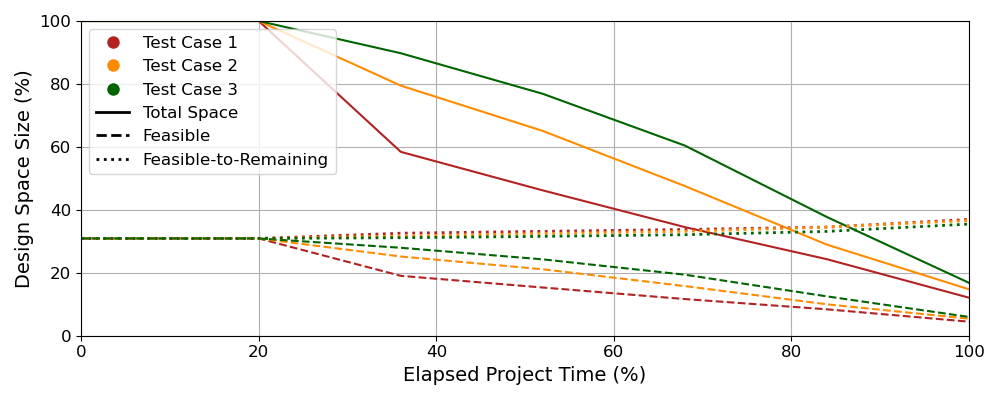
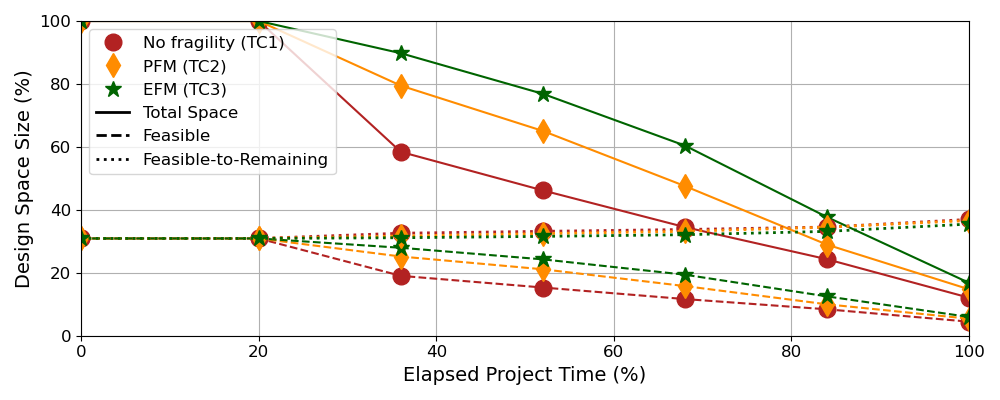
Updated display of final results

diff --git a/Python Code/Simulation_Results_050_DTC1/plot_data.py b/Python Code/Simulation_Results_050_DTC1/plot_data.py
@@ -20,7 +20,7 @@ from matplotlib.lines import Line2D
 """
 SECONDARY FUNCTION
 """
-def plotData(data, label_prefix, linestyle, colors, color_idx, marker=None):
+def plotData(data, label_prefix, linestyle, colors, color_idx, marker):
     """
     Description
     -----------
@@ -41,8 +41,8 @@ def plotData(data, label_prefix, linestyle, colors, color_idx, marker=None):
     color_idx : Integer
         Current position in the `colors` list from which to start coloring the
         plotted lines
-    marker : String, optional
-        Marker style. Default is None, which means no marker
+    marker : List
+        Marker styles
 
     Returns
     -------
@@ -51,7 +51,7 @@ def plotData(data, label_prefix, linestyle, colors, color_idx, marker=None):
     """
     
     # Loop through each test case's data
-    for test_case, data_points in data.items():
+    for i, (test_case, data_points) in enumerate(data.items()):
         
         # Sort data points by its time iteration keys
         sorted_data_points = sorted(data_points.items(), key=lambda x: x[0])
@@ -73,7 +73,7 @@ def plotData(data, label_prefix, linestyle, colors, color_idx, marker=None):
         # Plot the data
         plt.plot(x_values, y_values, label=f'{label_prefix} {test_case}',
                  color=colors[color_idx % len(colors)], linestyle=linestyle,
-                 linewidth=linewidth, marker=marker)
+                 linewidth=linewidth, marker=marker[i], markersize=12)
         
         # Increase the color index by 1
         color_idx += 1
@@ -114,15 +114,17 @@ def plotDisciplines(all_disciplines_data, feas1_disciplines_data,
         over elapsed time
     """
     
-    # Initialize colors, line styles, and markers
+    # Initialize colors, line styles, markers, and legend names
     colors = ['firebrick', 'darkorange', 'darkgreen']
     # line_styles = ['-', '--', ':', '-.', 'None', 'None']
     line_styles = ['-', '--', ':']
     # markers = ['', '', '', '', '*', '+']
-    markers = ['', '', '']
+    markers = ['o', 'd', '*']
     # data_groups = ['Total Space', 'Feasible Space', 'Feasible-to-Remaining',
     #                'Universal Feasible', 'Universal-to-Remaining', 'Diversity']
     data_groups = ['Total Space', 'Feasible', 'Feasible-to-Remaining']
+    custom_names = ["No fragility (TC1)", "PFM (TC2)", "EFM (TC3)"] 
+    
     
     # Loop through each discipline's data
     for discipline, all_test_cases_data in all_disciplines_data.items():
@@ -131,13 +133,13 @@ def plotDisciplines(all_disciplines_data, feas1_disciplines_data,
         plt.figure(figsize=(10, 4))
         
         # Create custom legend labels
-        color_handles = [Line2D([0], [0], marker='o', color='w', 
-                         label=f'Test Case {i+1}', markerfacecolor=color, 
-                         markersize=10) for i, color in enumerate(colors)]
+        color_handles = [Line2D([0], [0], color=color, linewidth=0, 
+                                marker=markers[i], markersize=12, 
+                                label=custom_names[i]) \
+                         for i, color in enumerate(colors)]
         line_style_handles = [Line2D([0], [0], color='black', linewidth=2,
-                              linestyle=ls, marker=mk, label=data_groups[i]) \
-                              for i, (ls, mk) in enumerate(zip(line_styles, 
-                                                               markers))]
+                              linestyle=ls, label=data_groups[i]) \
+                              for i, ls in enumerate(line_styles)]
         
         # Retrieve disciplines' feasible space data
         feas1_test_cases_data = feas1_disciplines_data.get(discipline, {})
@@ -151,27 +153,27 @@ def plotDisciplines(all_disciplines_data, feas1_disciplines_data,
         # Plot data for space remaining
         color_idx = 0
         color_idx = plotData(all_test_cases_data, 'All', line_styles[0], 
-                             colors, 0, markers[0])
+                             colors, 0, markers)
         
         # Plot data for feasible-to-remaining space
         color_idx = 0
         color_idx = plotData(feas2_test_cases_data, 'Feas2', line_styles[1], 
-                              colors, 0, markers[1])
+                              colors, 0, markers)
         
         # Plot data for feasible space remaining
         color_idx = 0
         color_idx = plotData(feas1_test_cases_data, 'Feas1', line_styles[2], 
-                             colors, 0, markers[2])
+                             colors, 0, markers)
         
         # # Plot data for universal feasible space remaining
         # color_idx = 0
         # color_idx = plotData(ufeas2_test_cases_data, 'uFeas2', line_styles[3], 
-        #                      colors, 0, markers[3])
+        #                      colors, 0, markers)
         
         # # Plot data for universal feasible-to-remaining space
         # color_idx = 0
         # color_idx = plotData(ufeas1_test_cases_data, 'uFeas1', line_styles[4], 
-        #                      colors, 0, markers[4])
+        #                      colors, 0, markers)
         
         # Plot legend
         plt.legend(handles=color_handles+line_style_handles, loc='upper left',
@@ -198,7 +200,7 @@ def plotDisciplines(all_disciplines_data, feas1_disciplines_data,
         plt.show()
 
 
-def plotDiversity(discipline_data, data_type, linestyle, colors, marker=None):
+def plotDiversity(discipline_data, data_type, linestyle, colors, marker):
     """
     Description
     -----------
@@ -214,9 +216,12 @@ def plotDiversity(discipline_data, data_type, linestyle, colors, marker=None):
         Style of line for plotting. Use 'None' for no line
     colors : List
         List of colors for plotting lines
-    marker : String, optional
-        Marker style. Default is None, which means no marker
+    marker : List
+        List of marker styles for plotting lines
     """
+    
+    # Initialize custom legend names
+    custom_names = ["No fragility (TC1)", "PFM (TC2)", "EFM (TC3)"] 
     
     # Loop through each discipline's data
     for discipline, all_test_cases_data in discipline_data.items():
@@ -228,7 +233,7 @@ def plotDiversity(discipline_data, data_type, linestyle, colors, marker=None):
         color_idx = 0
         
         # Loop through each test case's data
-        for test_case, data_points in all_test_cases_data.items():
+        for j,(test_case,data_points) in enumerate(all_test_cases_data.items()):
             
             # Sort data points by its time iteration keys
             sorted_data_points = sorted(data_points.items(), key=lambda x: x[0])
@@ -249,16 +254,18 @@ def plotDiversity(discipline_data, data_type, linestyle, colors, marker=None):
             
             # Plot the data
             plt.plot(x_values, y_values, label=f'{data_type} {test_case}',
-                     color=colors[color_idx % len(colors)], linestyle=linestyle, 
-                     linewidth=linewidth, marker=marker)
+                     color=colors[color_idx % len(colors)], 
+                     linestyle=linestyle, linewidth=linewidth, 
+                     marker=marker[j], markersize=12)
             
             # Increase the color index by 1
             color_idx += 1
         
         # Create custom legend labels
         custom_legend = [Line2D([0], [0], color=colors[i % len(colors)], 
-                                linestyle=linestyle, linewidth=2, marker=marker, 
-                                label=f'Test Case {i+1}') \
+                                linestyle=linestyle, linewidth=0, 
+                                marker=marker[i], markersize=12, 
+                                label=custom_names[i]) \
                          for i in range(len(all_test_cases_data))]
         
         # Plot legend
@@ -414,7 +421,8 @@ plotDisciplines(all_disciplines_data, feas1_disciplines_data,
 
 # Create diversity plots for each discipline
 plotDiversity(diversity_data, 'Discrepancy', '-', 
-              ['firebrick', 'darkorange', 'darkgreen'])
+              ['firebrick', 'darkorange', 'darkgreen'],
+              marker = ['o', 'd', '*'])
 
 # Create Heat Map Plot of Test Case 3 for each discipline
 # plotHeatmaps(Test_Case_3, 0, Discips[0]['ins'])

diff --git a/Python Code/Simulation_Results_200_DTC1/plot_data.py b/Python Code/Simulation_Results_200_DTC1/plot_data.py
@@ -20,7 +20,7 @@ from matplotlib.lines import Line2D
 """
 SECONDARY FUNCTION
 """
-def plotData(data, label_prefix, linestyle, colors, color_idx, marker=None):
+def plotData(data, label_prefix, linestyle, colors, color_idx, marker):
     """
     Description
     -----------
@@ -41,8 +41,8 @@ def plotData(data, label_prefix, linestyle, colors, color_idx, marker=None):
     color_idx : Integer
         Current position in the `colors` list from which to start coloring the
         plotted lines
-    marker : String, optional
-        Marker style. Default is None, which means no marker
+    marker : List
+        Marker styles
 
     Returns
     -------
@@ -51,7 +51,7 @@ def plotData(data, label_prefix, linestyle, colors, color_idx, marker=None):
     """
     
     # Loop through each test case's data
-    for test_case, data_points in data.items():
+    for i, (test_case, data_points) in enumerate(data.items()):
         
         # Sort data points by its time iteration keys
         sorted_data_points = sorted(data_points.items(), key=lambda x: x[0])
@@ -73,7 +73,7 @@ def plotData(data, label_prefix, linestyle, colors, color_idx, marker=None):
         # Plot the data
         plt.plot(x_values, y_values, label=f'{label_prefix} {test_case}',
                  color=colors[color_idx % len(colors)], linestyle=linestyle,
-                 linewidth=linewidth, marker=marker)
+                 linewidth=linewidth, marker=marker[i], markersize=12)
         
         # Increase the color index by 1
         color_idx += 1
@@ -114,15 +114,17 @@ def plotDisciplines(all_disciplines_data, feas1_disciplines_data,
         over elapsed time
     """
     
-    # Initialize colors, line styles, and markers
+    # Initialize colors, line styles, markers, and legend names
     colors = ['firebrick', 'darkorange', 'darkgreen']
     # line_styles = ['-', '--', ':', '-.', 'None', 'None']
     line_styles = ['-', '--', ':']
     # markers = ['', '', '', '', '*', '+']
-    markers = ['', '', '']
+    markers = ['o', 'd', '*']
     # data_groups = ['Total Space', 'Feasible Space', 'Feasible-to-Remaining',
     #                'Universal Feasible', 'Universal-to-Remaining', 'Diversity']
     data_groups = ['Total Space', 'Feasible', 'Feasible-to-Remaining']
+    custom_names = ["No fragility (TC1)", "PFM (TC2)", "EFM (TC3)"] 
+    
     
     # Loop through each discipline's data
     for discipline, all_test_cases_data in all_disciplines_data.items():
@@ -131,13 +133,13 @@ def plotDisciplines(all_disciplines_data, feas1_disciplines_data,
         plt.figure(figsize=(10, 4))
         
         # Create custom legend labels
-        color_handles = [Line2D([0], [0], marker='o', color='w', 
-                         label=f'Test Case {i+1}', markerfacecolor=color, 
-                         markersize=10) for i, color in enumerate(colors)]
+        color_handles = [Line2D([0], [0], color=color, linewidth=0, 
+                                marker=markers[i], markersize=12, 
+                                label=custom_names[i]) \
+                         for i, color in enumerate(colors)]
         line_style_handles = [Line2D([0], [0], color='black', linewidth=2,
-                              linestyle=ls, marker=mk, label=data_groups[i]) \
-                              for i, (ls, mk) in enumerate(zip(line_styles, 
-                                                               markers))]
+                              linestyle=ls, label=data_groups[i]) \
+                              for i, ls in enumerate(line_styles)]
         
         # Retrieve disciplines' feasible space data
         feas1_test_cases_data = feas1_disciplines_data.get(discipline, {})
@@ -151,27 +153,27 @@ def plotDisciplines(all_disciplines_data, feas1_disciplines_data,
         # Plot data for space remaining
         color_idx = 0
         color_idx = plotData(all_test_cases_data, 'All', line_styles[0], 
-                             colors, 0, markers[0])
+                             colors, 0, markers)
         
         # Plot data for feasible-to-remaining space
         color_idx = 0
         color_idx = plotData(feas2_test_cases_data, 'Feas2', line_styles[1], 
-                              colors, 0, markers[1])
+                              colors, 0, markers)
         
         # Plot data for feasible space remaining
         color_idx = 0
         color_idx = plotData(feas1_test_cases_data, 'Feas1', line_styles[2], 
-                             colors, 0, markers[2])
+                             colors, 0, markers)
         
         # # Plot data for universal feasible space remaining
         # color_idx = 0
         # color_idx = plotData(ufeas2_test_cases_data, 'uFeas2', line_styles[3], 
-        #                      colors, 0, markers[3])
+        #                      colors, 0, markers)
         
         # # Plot data for universal feasible-to-remaining space
         # color_idx = 0
         # color_idx = plotData(ufeas1_test_cases_data, 'uFeas1', line_styles[4], 
-        #                      colors, 0, markers[4])
+        #                      colors, 0, markers)
         
         # Plot legend
         plt.legend(handles=color_handles+line_style_handles, loc='upper left',
@@ -198,7 +200,7 @@ def plotDisciplines(all_disciplines_data, feas1_disciplines_data,
         plt.show()
 
 
-def plotDiversity(discipline_data, data_type, linestyle, colors, marker=None):
+def plotDiversity(discipline_data, data_type, linestyle, colors, marker):
     """
     Description
     -----------
@@ -214,9 +216,12 @@ def plotDiversity(discipline_data, data_type, linestyle, colors, marker=None):
         Style of line for plotting. Use 'None' for no line
     colors : List
         List of colors for plotting lines
-    marker : String, optional
-        Marker style. Default is None, which means no marker
+    marker : List
+        List of marker styles for plotting lines
     """
+    
+    # Initialize custom legend names
+    custom_names = ["No fragility (TC1)", "PFM (TC2)", "EFM (TC3)"] 
     
     # Loop through each discipline's data
     for discipline, all_test_cases_data in discipline_data.items():
@@ -228,7 +233,7 @@ def plotDiversity(discipline_data, data_type, linestyle, colors, marker=None):
         color_idx = 0
         
         # Loop through each test case's data
-        for test_case, data_points in all_test_cases_data.items():
+        for j,(test_case,data_points) in enumerate(all_test_cases_data.items()):
             
             # Sort data points by its time iteration keys
             sorted_data_points = sorted(data_points.items(), key=lambda x: x[0])
@@ -249,16 +254,18 @@ def plotDiversity(discipline_data, data_type, linestyle, colors, marker=None):
             
             # Plot the data
             plt.plot(x_values, y_values, label=f'{data_type} {test_case}',
-                     color=colors[color_idx % len(colors)], linestyle=linestyle, 
-                     linewidth=linewidth, marker=marker)
+                     color=colors[color_idx % len(colors)], 
+                     linestyle=linestyle, linewidth=linewidth, 
+                     marker=marker[j], markersize=12)
             
             # Increase the color index by 1
             color_idx += 1
         
         # Create custom legend labels
         custom_legend = [Line2D([0], [0], color=colors[i % len(colors)], 
-                                linestyle=linestyle, linewidth=2, marker=marker, 
-                                label=f'Test Case {i+1}') \
+                                linestyle=linestyle, linewidth=0, 
+                                marker=marker[i], markersize=12, 
+                                label=custom_names[i]) \
                          for i in range(len(all_test_cases_data))]
         
         # Plot legend
@@ -414,7 +421,8 @@ plotDisciplines(all_disciplines_data, feas1_disciplines_data,
 
 # Create diversity plots for each discipline
 plotDiversity(diversity_data, 'Discrepancy', '-', 
-              ['firebrick', 'darkorange', 'darkgreen'])
+              ['firebrick', 'darkorange', 'darkgreen'],
+              marker = ['o', 'd', '*'])
 
 # Create Heat Map Plot of Test Case 3 for each discipline
 # plotHeatmaps(Test_Case_3, 0, Discips[0]['ins'])
